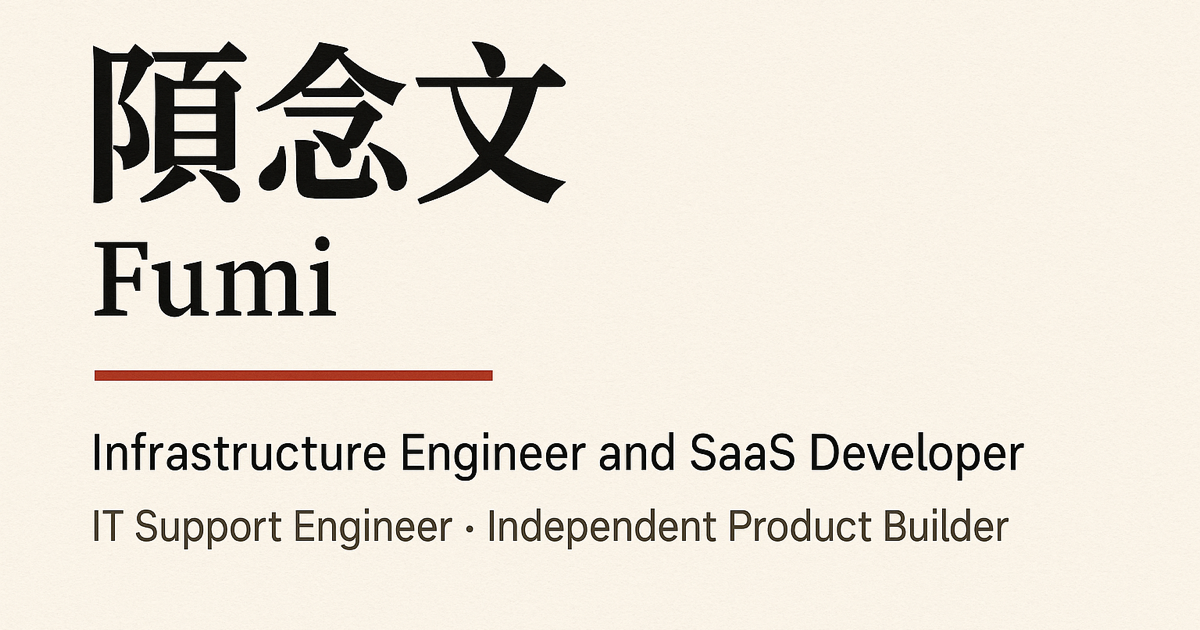
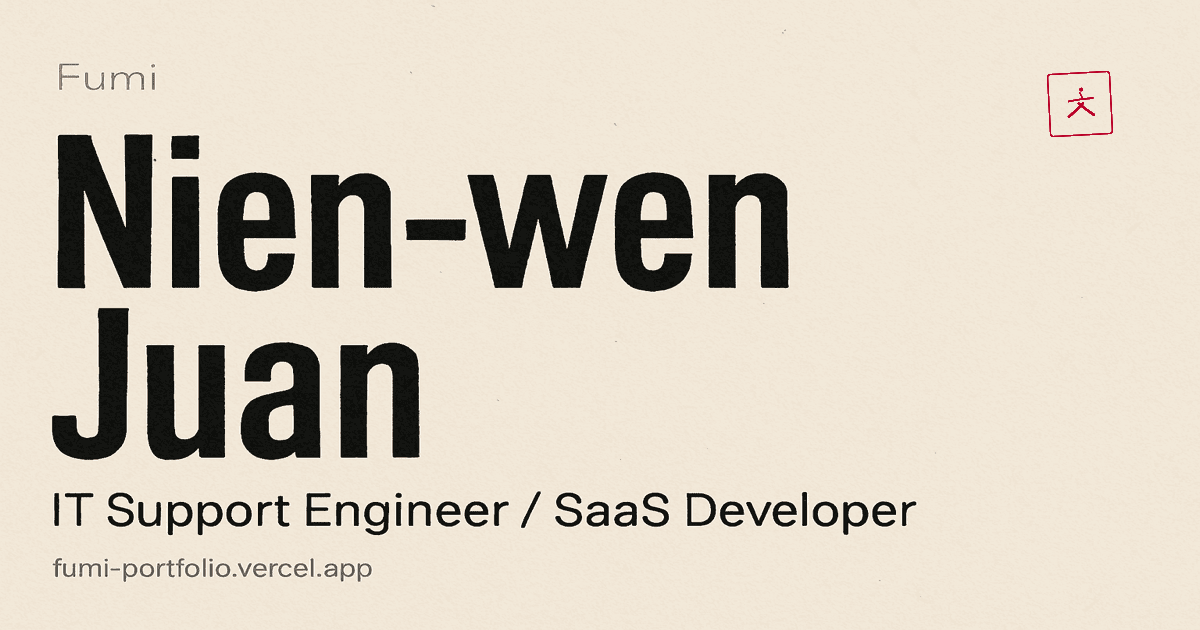
[FP-014 + FP-015] tech-debt 解消 + og-en.png 再生成バンドル (#16)
* refactor: [FP-014 B-1] SkillsSection locale 分岐を switch exhaustive 化

- locale === "en" ? ... : ... を getCertDate(locale, cert) switch に置換
- 新 locale 追加時に型エラーで検出される (ProjectsSection getInDevBadge と同パターン)
- FP-009 reviewer-architecture M-2 対応

Refs FP-014

* fix: [FP-014 B-2] og-en.png 再エンコード (1.09MB -> 185KB)

- pngquant --quality=70-85 で再圧縮
- ja(231K) / zh(232K) と同等以下のサイズに揃え、SNS プレビュー遅延を解消
- 形式: 8-bit RGB -> 4-bit colormap (hand-inked monochrome + 1 accent
  デザインのため視覚的劣化なし / 1200x630 OG カードで表示確認推奨)
- FP-009 reviewer-quality M-1 対応

Refs FP-014

* refactor: [FP-014 B-3] 旧 langSwitch* deprecated 系フィールド削除

- SiteContent 型から langSwitchLabel / langSwitchLabelShort /
  langSwitchAriaLabel / langSwitchHref を削除
- ja / zh-TW bundle のリテラル値も削除 (en bundle は元から未定義)
- LangOption の旧フィールド言及コメントも削除
- 残置: langSwitcherNavLabel (現役 / SiteHeader 経由で使用) と
  langOptions (FP-009 新形式)
- FP-009 reviewer-architecture Low-2 対応

Refs FP-014

* Revert "fix: [FP-014 B-2] og-en.png 再エンコード (1.09MB -> 185KB)"

This reverts commit cf3e704bf19ef94ceefd90ab8af2c5b6737e4a07.

* fix: [FP-015] en bundle 漢字混入を Nien-wen Juan 表記に統一

en ロケール bundle で「阮念文」漢字が混入していた 3 箇所を
英語表記 "Nien-wen Juan" に統一 (ふみさん 2026-06-09 確定):

- nameSecondary: "阮念文" -> "Nien-wen Juan"
- portraitAlt:   "Portrait of Fumi (阮念文)" -> "Portrait of Fumi (Nien-wen Juan)"
- copyrightText: "© 2026 ふみ / 阮念文" -> "© 2026 Fumi / Nien-wen Juan" (en 専用化)

ja / zh-TW bundle の漢字はロケール的に正当なため残置。
SiteContent 型コメントを ja/zh-TW と en の差分を明示する書き方に更新。
[…]

Changed region(s): [[0.0308, 0.0603, 0.8633, 0.9349], [0.8942, 0.1508, 0.925, 0.181], [0.8942, 0.0905, 0.925, 0.1206]]

diff --git a/src/lib/content.ts b/src/lib/content.ts
@@ -46,9 +46,7 @@ export type ProjectCard = {
 // ============================================================
 
 /**
- * 各言語オプション。
- * 旧: langSwitchLabel / langSwitchLabelShort / langSwitchAriaLabel / langSwitchHref
- * 新: languages[].* に置き換え。配列にすることで 4 言語以上も同じ型で対応。
+ * 各言語オプション。配列にすることで 4 言語以上も同じ型で対応。
  */
 export type LangOption = {
   /** URL 上のロケール文字列 */
@@ -70,23 +68,6 @@ export type LangOption = {
 export type SiteContent = {
   // Header
   logoLabel: string;
-
-  /**
-   * @deprecated FP-009: languages[] に移行済み。移行期は残す。
-   */
-  langSwitchLabel?: string;        // desktop
-  /**
-   * @deprecated FP-009: languages[] に移行済み。移行期は残す。
-   */
-  langSwitchLabelShort?: string;   // mobile (JA / ZH)
-  /**
-   * @deprecated FP-009: languages[] に移行済み。移行期は残す。
-   */
-  langSwitchAriaLabel?: string;
-  /**
-   * @deprecated FP-009: languages[] に移行済み。移行期は残す。
-   */
-  langSwitchHref?: string;
 
   /**
    * 全言語オプションの一覧（LangSwitcher 用）。現在表示中の言語も含む。
@@ -138,7 +119,7 @@ export type SiteContent = {
 
   // Contact / Footer
   sectionContactHeading: string;
-  copyrightText: string; // "© 2026 ふみ / 阮念文"（3 言語共通）
+  copyrightText: string; // ja/zh-TW: "© 2026 ふみ / 阮念文" / en: "© 2026 Fumi / Nien-wen Juan" (FP-015)
 };
 
 // ============================================================
@@ -229,12 +210,6 @@ export const CONTENT = {
   ja: {
     // ---- Header ----
     logoLabel: "ふみ",
-    // @deprecated フィールド（移行期 / LangSwitcher は languages[] を使用）
-    langSwitchLabel: "繁體中文",
-    langSwitchLabelShort: "ZH",
-    langSwitchAriaLabel: "繁體中文に切り替え",
-    langSwitchHref: "/zh-TW",
-    // FP-009 新フィールド
     langOptions: LANG_OPTIONS,
     langSwitcherNavLabel: "言語切替",
 
@@ -354,12 +329,6 @@ export const CONTENT = {
   "zh-TW": {
     // ---- Header ----
     logoLabel: "ふみ",
-    // @deprecated フィールド（移行期 / LangSwitcher は languages[] を使用）
-    langSwitchLabel: "日本語",
-    langSwitchLabelShort: "JA",
-    langSwitchAriaLabel: "切換至日文",
-    langSwitchHref: "/ja",
-    // FP-009 新フィールド
     langOptions: LANG_OPTIONS,
     langSwitcherNavLabel: "語言切換",
 
@@ -486,13 +455,13 @@ export const CONTENT = {
     // ---- Hero ----
     namePrimary: "Fumi",
     namePrimaryLang: "en",
-    nameSecondary: "阮念文",          // aria-hidden, kanji name
+    nameSecondary: "Nien-wen Juan",   // aria-hidden, romanized name (FP-015 / 2026-06-09)
     romaji: "Fumi — IT Support & Infrastructure Engineer",
     subRole: "Independent SaaS Developer",
     tagline: "Turning frontline voices into reliable systems.",
     ctaPrimary: "See projects",
     ctaSecondary: "Get in touch →",
-    portraitAlt: "Portrait of Fumi (阮念文)",
+    portraitAlt: "Portrait of Fumi (Nien-wen Juan)",
 
     // ---- About ----
     sectionAboutHeading: "About",
@@ -594,7 +563,7 @@ export const CONTENT = {
 
     // ---- Contact ----
     sectionContactHeading: "Contact",
-    copyrightText: "© 2026 ふみ / 阮念文",  // 制約 5: 3 言語共通テキスト
+    copyrightText: "© 2026 Fumi / Nien-wen Juan",  // FP-015: en 専用化 (英語ロケール訪問者の可読性 / D325 整合)
   } satisfies SiteContent,
 } as const satisfies Record<Locale, SiteContent>;
 

diff --git a/src/components/SkillsSection.tsx b/src/components/SkillsSection.tsx
@@ -14,6 +14,17 @@ type Props = {
   certs: CertEntry[];
 };
 
+/** locale ごとの cert date 表示。新 locale 追加時は型エラーで検出できる。 */
+function getCertDate(locale: Locale, cert: CertEntry): string {
+  switch (locale) {
+    case "ja":
+    case "zh-TW":
+      return cert.date;
+    case "en":
+      return cert.dateEn ?? cert.date;
+  }
+}
+
 export function SkillsSection({ locale, content, certs }: Props) {
   return (
     <section
@@ -114,7 +125,7 @@ export function SkillsSection({ locale, content, certs }: Props) {
                 fontVariantNumeric: "tabular-nums",
               }}
             >
-              {locale === "en" ? (cert.dateEn ?? cert.date) : cert.date}
+              {getCertDate(locale, cert)}
             </span>
 
             {/* Japanese name */}
